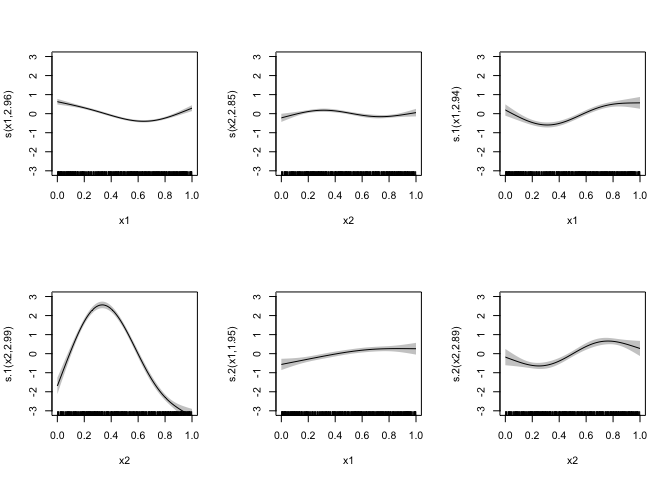
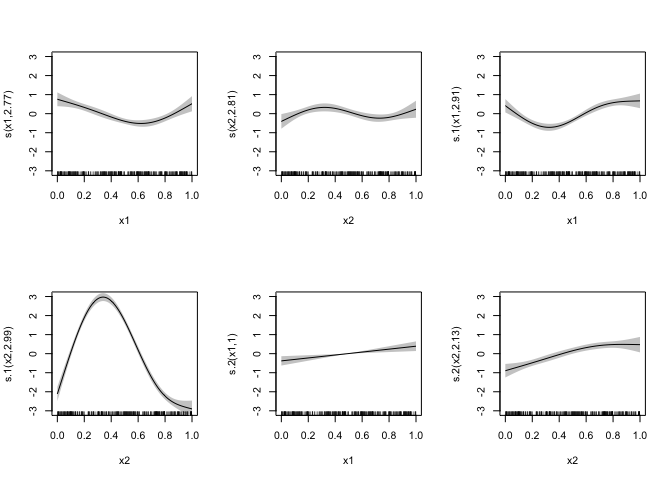
Update with working variance matrix.
Closes #1

diff --git a/README.md b/README.md
@@ -1,7 +1,7 @@
 Fitting multivariate outcome GAMs with missing outcome data
 ================
 Noam Ross
-2024-01-16
+2024-01-18
 
 OK, I want to fit a model that has multiple continuous, correlated
 outcomes as a multivariate normal using `mgcv::mvn`. However, data from
@@ -94,7 +94,10 @@ generate_cov_matrix <- function(dim, scale = 1) {
 </details>
 
 ``` r
-data <- simulate_mvn_missing(n = 1000, miss = c(0,0,0.9), seed = 13, V = matrix(c(1,2,2,2,1,2,2,2,1), 3))
+set.seed(0)
+V <- matrix(1 + rnorm(9,sd = 0.1), 3) + diag(3)*0.5
+V[lower.tri(V)] <- V[t(lower.tri(V))]
+data <- simulate_mvn_missing(n = 300, miss = c(0,0,0.9), seed = 13, V = V)
 ```
 
 OK, first strategy. Following the approach in `?mgcv::missing.data`, we
@@ -138,15 +141,15 @@ frms
 
     ## [[1]]
     ## y1 ~ 0 + s(x1, by = id_y1, k = 4) + s(x2, by = id_y1, k = 4)
-    ## <environment: 0x7fac260b4ba8>
+    ## <environment: 0x7fe2972d5498>
     ## 
     ## [[2]]
     ## y2 ~ 0 + s(x1, by = id_y2, k = 4) + s(x2, by = id_y2, k = 4)
-    ## <environment: 0x7fac260bd7b0>
+    ## <environment: 0x7fe2972e01b8>
     ## 
     ## [[3]]
     ## y3 ~ 0 + s(x1, by = id_y3, k = 4) + s(x2, by = id_y3, k = 4)
-    ## <environment: 0x7fac44e318e8>
+    ## <environment: 0x7fe2956c7978>
 
 ``` r
 # Create formulas for the full model without missing data or index terms
@@ -257,53 +260,51 @@ the covariance matrix:
 (V_true <- attr(data, "true_V"))
 ```
 
-    ##      [,1] [,2] [,3]
-    ## [1,]    1    2    2
-    ## [2,]    2    1    2
-    ## [3,]    2    2    1
+    ##           [,1]     [,2]      [,3]
+    ## [1,] 1.6262954 1.127243 0.9071433
+    ## [2,] 1.1272429 1.541464 0.9705280
+    ## [3,] 0.9071433 0.970528 1.4994233
 
 ``` r
 (V_full <- solve(crossprod(mod_full$family$data$R)))
 ```
 
-    ##           [,1]     [,2]     [,3]
-    ## [1,] 0.9474711 1.890342 1.887279
-    ## [2,] 1.8903417 3.797058 3.758519
-    ## [3,] 1.8872794 3.758519 3.799153
+    ##           [,1]      [,2]      [,3]
+    ## [1,] 1.5294827 0.9250831 0.8932648
+    ## [2,] 0.9250831 1.4173779 0.8996986
+    ## [3,] 0.8932648 0.8996986 1.5900505
 
 ``` r
 (V_miss <- solve(crossprod(mod_miss$family$data$R)))
 ```
 
-    ##           [,1]      [,2]      [,3]
-    ## [1,] 0.9470419 1.8894829 0.1821631
-    ## [2,] 1.8894829 3.7953391 0.3634101
-    ## [3,] 0.1821631 0.3634101 0.3631744
+    ##            [,1]       [,2]       [,3]
+    ## [1,] 1.57845050 0.95521788 0.05894369
+    ## [2,] 0.95521788 1.43520526 0.04660502
+    ## [3,] 0.05894369 0.04660502 0.09346221
 
 ``` r
 (V_miss_random <- solve(crossprod(mod_miss_random$family$data$R)))
 ```
 
-    ##           [,1]      [,2]      [,3]
-    ## [1,] 0.9468754 1.8891515 0.2197479
-    ## [2,] 1.8891515 3.7946793 0.4341205
-    ## [3,] 0.2197479 0.4341205 3.8930326
+    ##           [,1]       [,2]       [,3]
+    ## [1,] 1.5347552 0.92767526 0.18493357
+    ## [2,] 0.9276753 1.41796461 0.07082077
+    ## [3,] 0.1849336 0.07082077 1.57273981
 
-The missing data approach underestimates both varaince and co-variance
-
-I’m a bit confused here. Why does `mod_full` overestimate the variance
-of the lower-right square? It has the real data.
-
-Let’s look at the covariance if we estimate it from the residuals
+The missing data approach underestimates both varince and co-variance.
+This missing data with random approach underestimates only the
+covariance. Let’s look at the covariance if we estimate it from the
+residuals
 
 ``` r
-(V_full_res <- cov(residuals(mod_full, type = "response"))) # quite similar V_full, as expected
+(V_full_res <- cov(residuals(mod_full, type = "response"))) # Same as V_full, as expected
 ```
 
-    ##           [,1]     [,2]     [,3]
-    ## [1,] 0.9484195 1.892234 1.889169
-    ## [2,] 1.8922340 3.800858 3.762282
-    ## [3,] 1.8891686 3.762282 3.774403
+    ##           [,1]      [,2]      [,3]
+    ## [1,] 1.5345981 0.9281770 0.8962523
+    ## [2,] 0.9281770 1.4221183 0.9027077
+    ## [3,] 0.8962523 0.9027077 1.4939191
 
 For the missing data cases we estimate the covaraince pairwise only from
 the non-missing residuals
@@ -315,10 +316,10 @@ res_miss[is.na(as.matrix(data_missing[yvars]))] <- NA
 (V_miss_res <- cov(residuals(mod_miss, type = "response"), use = "pairwise.complete.obs")) # Same as V_miss
 ```
 
-    ##           [,1]      [,2]      [,3]
-    ## [1,] 0.9479899 1.8913743 0.1823455
-    ## [2,] 1.8913743 3.7991382 0.3637739
-    ## [3,] 0.1823455 0.3637739 0.3631835
+    ##            [,1]       [,2]       [,3]
+    ## [1,] 1.58372960 0.95841259 0.05914083
+    ## [2,] 0.95841259 1.44000528 0.04676089
+    ## [3,] 0.05914083 0.04676089 0.09372410
 
 ``` r
 res_miss_random <- residuals(mod_miss_random, type = "response")
@@ -326,10 +327,10 @@ res_miss_random[is.na(as.matrix(data_missing[yvars]))] <- NA
 (V_miss_random_res <- cov(residuals(mod_miss_random, type = "response"), use = "pairwise.complete.obs")) # Same a V_miss_random
 ```
 
-    ##           [,1]      [,2]      [,3]
-    ## [1,] 0.9478232 1.8910425 0.2199679
-    ## [2,] 1.8910425 3.7984778 0.4345551
-    ## [3,] 0.2199679 0.4345551 3.8968594
+    ##           [,1]       [,2]       [,3]
+    ## [1,] 1.5398882 0.93077785 0.18555207
+    ## [2,] 0.9307779 1.42270697 0.07105762
+    ## [3,] 0.1855521 0.07105762 1.57737015
 
 These also turn out the same as the estimated value from the model. The
 random data approach underestimates variance/covariance less than the
@@ -343,43 +344,43 @@ correlation than the random data approach, and both are underestimates:
 cov2cor(V_true)
 ```
 
-    ##      [,1] [,2] [,3]
-    ## [1,]    1    2    2
-    ## [2,]    2    1    2
-    ## [3,]    2    2    1
+    ##           [,1]      [,2]      [,3]
+    ## [1,] 1.0000000 0.7119526 0.5809170
+    ## [2,] 0.7119526 1.0000000 0.6383799
+    ## [3,] 0.5809170 0.6383799 1.0000000
 
 ``` r
 cov2cor(V_full)
 ```
 
     ##           [,1]      [,2]      [,3]
-    ## [1,] 1.0000000 0.9966295 0.9947406
-    ## [2,] 0.9966295 1.0000000 0.9895776
-    ## [3,] 0.9947406 0.9895776 1.0000000
+    ## [1,] 1.0000000 0.6282979 0.5727993
+    ## [2,] 0.6282979 1.0000000 0.5993062
+    ## [3,] 0.5727993 0.5993062 1.0000000
 
 ``` r
 cov2cor(V_miss)
 ```
 
-    ##          [,1]      [,2]      [,3]
-    ## [1,] 1.000000 0.9966280 0.3106120
-    ## [2,] 0.996628 1.0000000 0.3095381
-    ## [3,] 0.310612 0.3095381 1.0000000
+    ##           [,1]      [,2]     [,3]
+    ## [1,] 1.0000000 0.6346437 0.153463
+    ## [2,] 0.6346437 1.0000000 0.127250
+    ## [3,] 0.1534630 0.1272500 1.000000
 
 ``` r
-cov2cor(V_miss_random)
+cov2cor(V_miss_random) # Way underestimates correlation
 ```
 
-    ##           [,1]      [,2]      [,3]
-    ## [1,] 1.0000000 0.9966274 0.1144549
-    ## [2,] 0.9966274 1.0000000 0.1129481
-    ## [3,] 0.1144549 0.1129481 1.0000000
+    ##           [,1]       [,2]       [,3]
+    ## [1,] 1.0000000 0.62884515 0.11903310
+    ## [2,] 0.6288452 1.00000000 0.04742414
+    ## [3,] 0.1190331 0.04742414 1.00000000
 
 Anectodotally, the general patterns above are consistent across
 different random seeds.
 
 Crap, am I going to have to fit all those latent random effects as in
 `?mgcv::missing.data`? That’s both ugly and computationally intense, as
-I’ll need to fit a random term for each output in each formula, and that
-will blow up in the real model that has both more outcomes and more
-parameters.
+I’ll need to fit a random effects term for each output in each formula
+each with all those effect levels, and that will blow up in the real
+model that has both more outcomes and more parameters.
